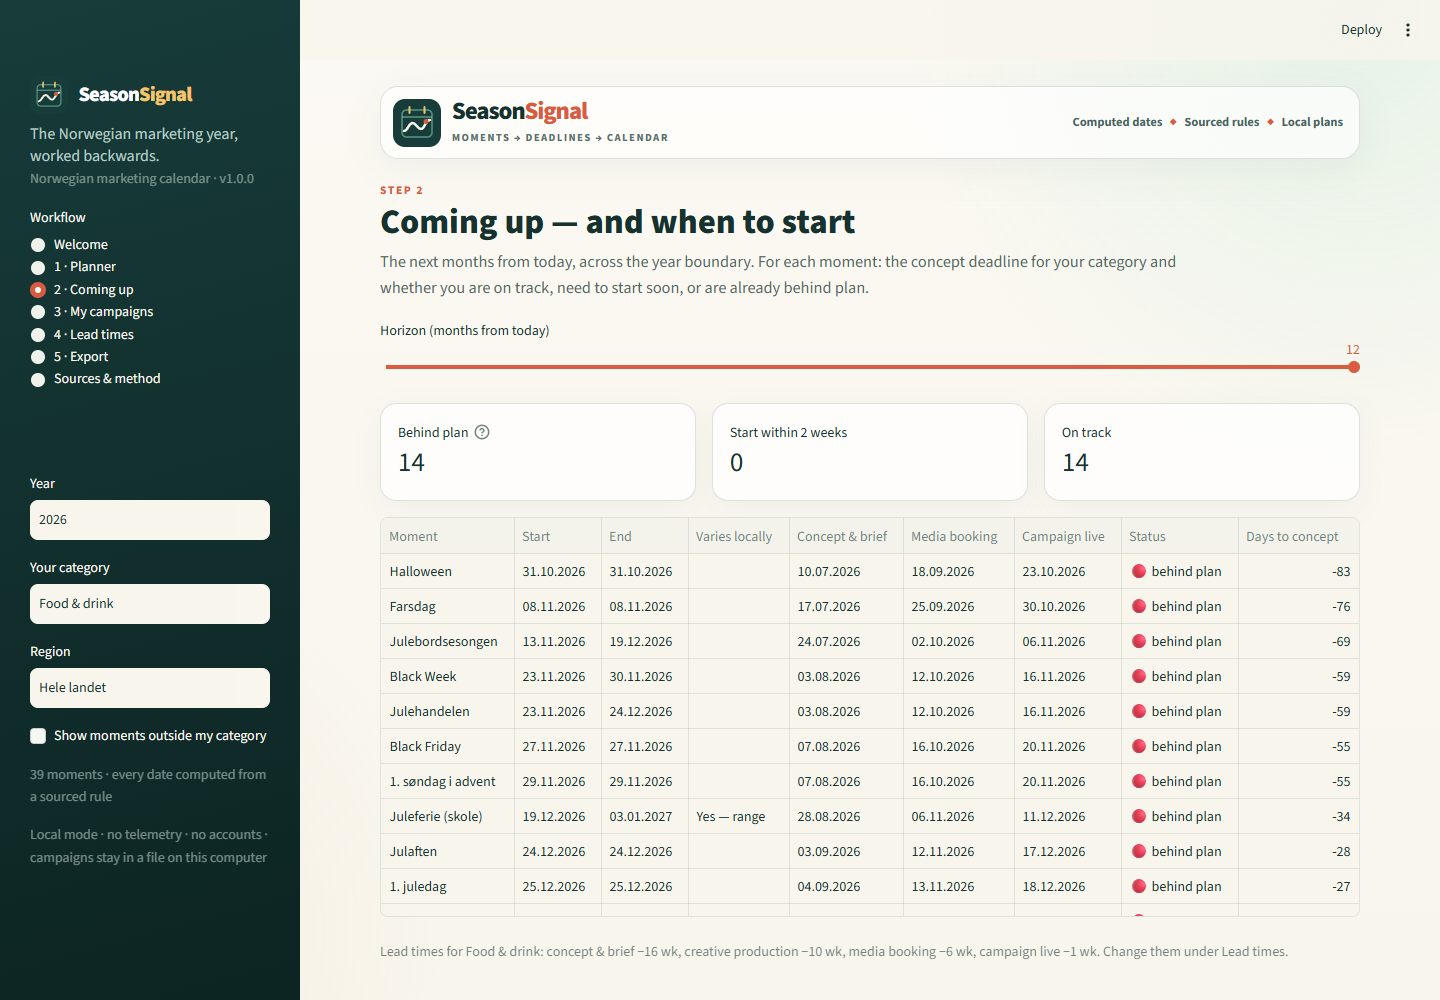
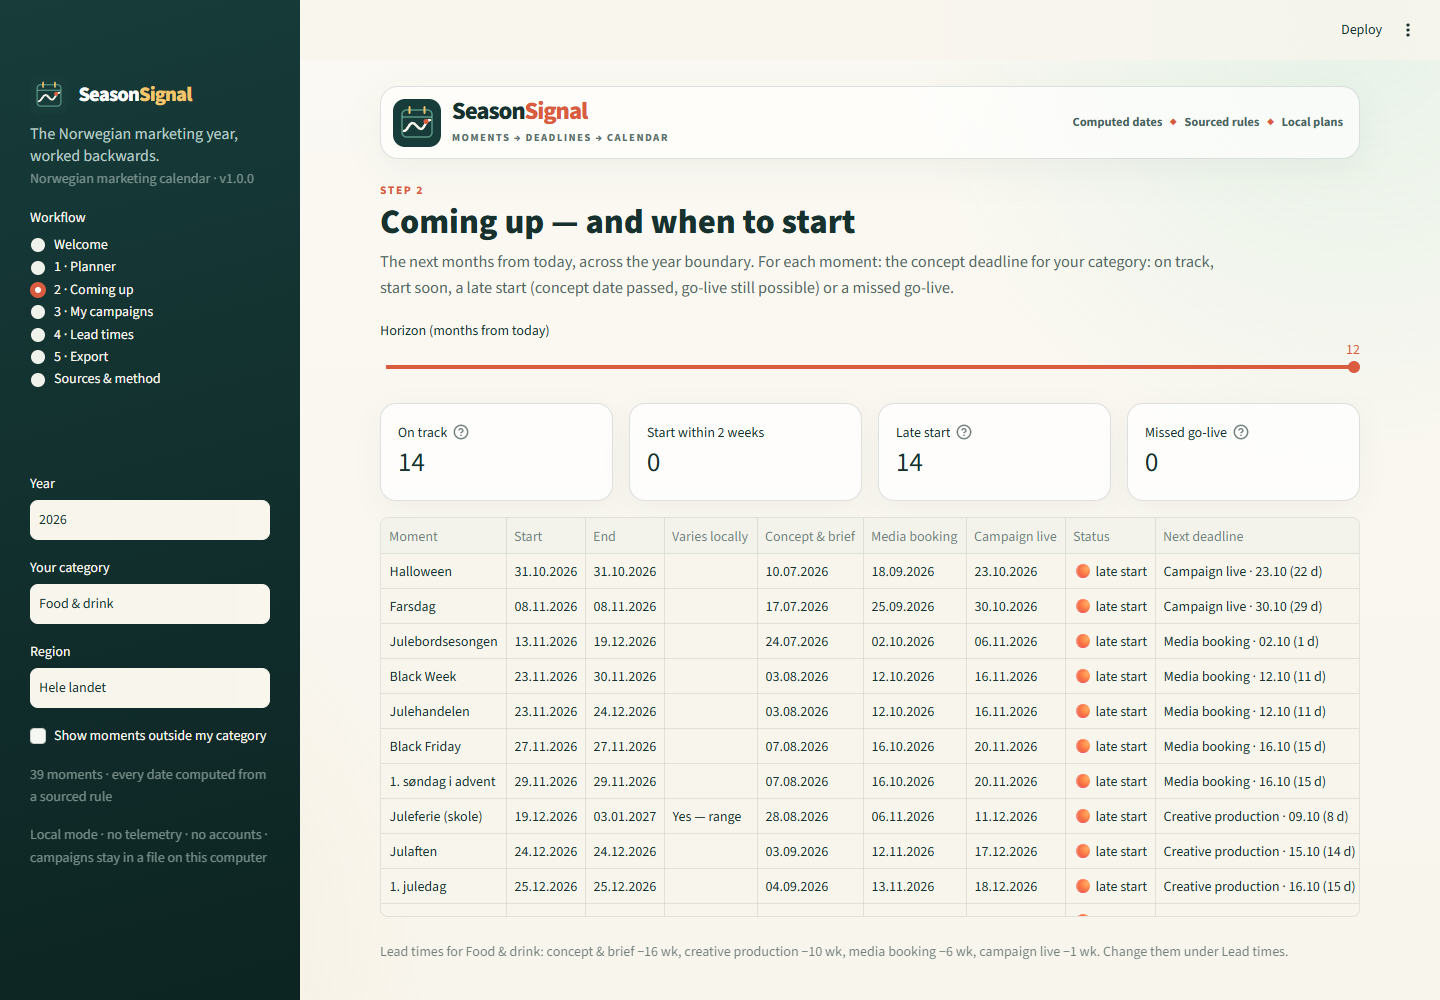
Clearer planning status, resilience fixes and macOS launcher
- Split "behind plan" into late start (go-live still possible) and
  missed go-live; Coming up shows the next deadline with a day count.
- window() includes ranges that started the previous year.
- Campaigns whose moment no longer exists are skipped with a warning
  instead of breaking pages, so they can still be removed.
- run_app.command for macOS; screenshots and examples regenerated.

diff --git a/app.py b/app.py
@@ -60,7 +60,8 @@ KIND_COLORS = {
 STATUS_ICONS = {
     "on track": "🟢 on track",
     "start soon": "🟡 start soon",
-    "behind plan": "🔴 behind plan",
+    "late start": "🟠 late start",
+    "missed go-live": "🔴 missed go-live",
     "happening now": "🔵 happening now",
     "passed": "⚪ passed",
 }
@@ -258,10 +259,20 @@ def _planned(year: int, category: str, region: str, show_all: bool):
     return plan_moments(LIBRARY, occurrences, _store().lead_times, category)
 
 
-def _campaign_plans(year: int | None = None):
+def _campaign_plans(year: int | None = None, *, warn: bool = False):
+    """Plans for saved campaigns. A campaign that no longer fits the library (e.g. its moment was renamed) is
+    skipped — optionally with a warning — so it can still be removed on the My campaigns page."""
     store = _store()
-    campaigns = [c for c in store.campaigns if year is None or c.year == year]
-    return [plan_campaign(c, LIBRARY, store.lead_times) for c in campaigns]
+    plans = []
+    for campaign in store.campaigns:
+        if year is not None and campaign.year != year:
+            continue
+        try:
+            plans.append(plan_campaign(campaign, LIBRARY, store.lead_times))
+        except PlanProblem as exc:
+            if warn:
+                st.warning(f"“{campaign.name}” cannot be planned and is left out: {exc} Remove it below.")
+    return plans
 
 
 DATE_COLUMNS = {
@@ -407,7 +418,7 @@ def page_welcome() -> None:
     st.markdown(
         f"1. The sidebar is set to **{_default_year()}**, **Food & drink** and **Hele landet**.\n"
         "2. Open **Planner**, click a bar (try *Black Week* or *17. mai*) and read its plan-back milestones.\n"
-        "3. Open **Coming up** for the next 6–12 months and what is already behind plan.\n"
+        "3. Open **Coming up** for the next 6–12 months: on track, late start or missed go-live.\n"
         "4. Open **My campaigns** to see the fictional brand *Fjellbrus* and its three campaigns.\n"
         "5. Open **Export** and download the `.ics` file for your calendar."
     )
@@ -475,7 +486,8 @@ def page_coming_up() -> None:
         "Step 2",
         "Coming up — and when to start",
         "The next months from today, across the year boundary. For each moment: the concept deadline for your "
-        "category and whether you are on track, need to start soon, or are already behind plan.",
+        "category: on track, start soon, a late start (concept date passed, go-live still possible) or a missed "
+        "go-live.",
     )
     months = st.slider("Horizon (months from today)", 6, 12, 12)
     start = max(TODAY, date(MIN_YEAR, 1, 1))
@@ -489,12 +501,18 @@ def page_coming_up() -> None:
         st.info("Nothing in this window for the chosen category.")
         return
     statuses = frame["Status"].value_counts()
-    cols = st.columns(3)
-    cols[0].metric("Behind plan", int(statuses.get("behind plan", 0)), help="Concept deadline already passed")
+    cols = st.columns(4)
+    cols[0].metric("On track", int(statuses.get("on track", 0)), help="Concept deadline more than two weeks away")
     cols[1].metric("Start within 2 weeks", int(statuses.get("start soon", 0)))
-    cols[2].metric("On track", int(statuses.get("on track", 0)))
+    cols[2].metric("Late start", int(statuses.get("late start", 0)),
+                   help="Concept deadline passed, but go-live is still ahead — plan a compressed timeline")
+    cols[3].metric("Missed go-live", int(statuses.get("missed go-live", 0)),
+                   help="The go-live date has passed; only a reactive presence is realistic")
     view = frame[["Moment", "Start", "End", "Varies locally", "Concept & brief", "Media booking", "Campaign live", "Status"]].copy()
-    view["Days to concept"] = [(d - TODAY).days for d in frame["Concept & brief"]]
+    next_due = [next((m for m in item.milestones if m.due >= TODAY), None) for item in planned]
+    view["Next deadline"] = [
+        f"{m.label} · {m.due:%d.%m} ({(m.due - TODAY).days} d)" if m else "go-live date passed" for m in next_due
+    ]
     view["Status"] = view["Status"].map(STATUS_ICONS)
     st.dataframe(view, hide_index=True, use_container_width=True, column_config=DATE_COLUMNS)
     st.caption(f"Lead times for {LIBRARY.category_label(category)}: " + ", ".join(
@@ -514,7 +532,7 @@ def page_campaigns() -> None:
     if not store.saved:
         st.info("You are looking at the fictional Fjellbrus demo. Your first change saves it to a local file; "
                 "remove the demo campaigns whenever you like.")
-    plans = [plan_campaign(c, LIBRARY, store.lead_times) for c in store.campaigns]
+    plans = _campaign_plans(warn=True)
     frame = campaigns_frame(LIBRARY, plans, TODAY)
     if frame.empty:
         st.info("No campaigns yet — add one below.")
@@ -523,7 +541,9 @@ def page_campaigns() -> None:
         view["Moment start"] = [f"{d:%d.%m.%Y}" for d in view["Moment start"]]
         st.dataframe(view, hide_index=True, use_container_width=True)
         for plan in plans:
-            label = ("🧪 " if plan.campaign.fictional else "") + f"{plan.campaign.name} · {plan.occurrence.moment.name_nb} {plan.campaign.year}"
+            label = ("🧪 " if plan.campaign.fictional else "") + (
+                f"{plan.campaign.name} · {plan.occurrence.moment.name_nb} {plan.campaign.year}"
+            )
             with st.expander(label):
                 st.markdown(f"**Moment:** {_span(plan.occurrence.start, plan.occurrence.end)}")
                 if plan.campaign.notes:

diff --git a/src/seasonsignal/planner.py b/src/seasonsignal/planner.py
@@ -51,17 +51,28 @@ def plan_moments(
     return [PlannedMoment(occ, plan_back(occ.start, offsets, holidays, working_days=working_days)) for occ in occurrences]
 
 
+STATUSES = ("on track", "start soon", "late start", "missed go-live", "happening now", "passed")
+
+
 def planning_status(item: PlannedMoment, today: date) -> str:
-    """Where a moment stands for a team starting today."""
+    """Where a moment stands for a team starting today.
+
+    - on track / start soon: the concept deadline is ahead (start soon = within 14 days);
+    - late start: the concept deadline has passed but go-live is still ahead — a compressed plan is possible;
+    - missed go-live: the go-live date has passed but the moment has not started;
+    - happening now / passed: the moment itself is under way or over.
+    """
     occ = item.occurrence
-    concept = next(m for m in item.milestones if m.key == "concept")
+    due = {m.key: m.due for m in item.milestones}
     if occ.end < today:
         return "passed"
     if occ.start <= today:
         return "happening now"
-    if concept.due >= today:
-        return "start soon" if (concept.due - today).days <= 14 else "on track"
-    return "behind plan"
+    if due["concept"] >= today:
+        return "start soon" if (due["concept"] - today).days <= 14 else "on track"
+    if due["live"] >= today:
+        return "late start"
+    return "missed go-live"
 
 
 def moments_frame(library: Library, planned: list[PlannedMoment], today: date | None = None) -> pd.DataFrame:

diff --git a/tests/test_app_pages.py b/tests/test_app_pages.py
@@ -75,3 +75,21 @@ def test_deep_link_opens_planner_on_a_moment():
     assert not app.exception, [error.value for error in app.exception]
     assert app.sidebar.radio[0].value == "1 · Planner"
     assert any("Black Week" in str(item.value) for item in app.markdown if str(item.value).startswith("###"))
+
+
+def test_campaign_for_unknown_moment_does_not_break_pages(isolated_store):
+    import json
+
+    (isolated_store / "seasonsignal.json").write_text(json.dumps({
+        "version": 1,
+        "lead_times": {},
+        "campaigns": [{"id": "old", "name": "Renamed moment", "moment_id": "gone", "year": 2026, "category": "food"}],
+    }), encoding="utf-8")
+    for page in ("3 · My campaigns", "5 · Export"):
+        app = _app()
+        app.sidebar.radio[0].set_value(page).run()
+        assert not app.exception, [error.value for error in app.exception]
+        assert not app.error, [error.value for error in app.error]
+        if page == "3 · My campaigns":
+            assert any("Renamed moment" in str(w.value) for w in app.warning)
+            assert any(b.label == "Remove campaign" for b in app.button)  # it can still be removed

diff --git a/tests/test_leadtimes_and_storage.py b/tests/test_leadtimes_and_storage.py
@@ -122,3 +122,16 @@ def test_campaign_validation_and_plan():
                          validate_lead_times(DEFAULT_LEAD_TIMES))
     assert plan.occurrence.start == date(2026, 11, 23)
     assert plan.milestones[0].due == date(2026, 8, 3)
+
+
+def test_planning_status_ladder():
+    from seasonsignal import plan_moments, planning_status
+
+    item = plan_moments(LIB, [LIB.resolve("black_week", 2026)], validate_lead_times(DEFAULT_LEAD_TIMES), "food")[0]
+    # Food: concept 3 Aug, live 16 Nov; Black Week 23–30 Nov 2026.
+    assert planning_status(item, date(2026, 6, 1)) == "on track"
+    assert planning_status(item, date(2026, 7, 27)) == "start soon"
+    assert planning_status(item, date(2026, 10, 1)) == "late start"
+    assert planning_status(item, date(2026, 11, 18)) == "missed go-live"
+    assert planning_status(item, date(2026, 11, 25)) == "happening now"
+    assert planning_status(item, date(2026, 12, 1)) == "passed"

diff --git a/src/seasonsignal/moments.py b/src/seasonsignal/moments.py
@@ -129,7 +129,7 @@ class Library:
         """Occurrences overlapping [start, start + months), across a year boundary if needed."""
         stop = _add_months(start, months)
         found: list[Occurrence] = []
-        for year in range(start.year, stop.year + 1):
+        for year in range(start.year - 1, stop.year + 1):  # the previous year's ranges can run into this one
             if rules.MIN_YEAR <= year <= rules.MAX_YEAR:
                 found.extend(occ for occ in self.occurrences(year, region) if occ.end >= start and occ.start < stop)
         return sorted(found, key=lambda occ: (occ.start, occ.moment.id))

diff --git a/tests/test_library.py b/tests/test_library.py
@@ -97,3 +97,8 @@ def test_circular_relative_rules_are_caught():
     library = parse_library(_with(loop))
     with pytest.raises(PlanProblem, match="Circular"):
         library.resolve("a", 2026)
+
+
+def test_window_includes_ranges_that_started_last_year():
+    found = {occ.moment.id for occ in LIB.window(date(2027, 1, 1), 6)}
+    assert "juleferie" in found  # 19.12.2026 – 03.01.2027

diff --git a/CHANGELOG.md b/CHANGELOG.md
@@ -19,9 +19,16 @@ First version of **SeasonSignal**, the Norwegian marketing calendar in the Signa
 - Exports: RFC 5545 `.ics` (all-day, transparent events with stable UIDs) and an XLSX plan with formula-injection-safe cells.
 - Fictional demo brand Fjellbrus (Food & drink) with påske, 17. mai and Black Week campaigns.
 
+### Planning status
+
+- Moments are graded on track / start soon / **late start** (concept date passed, go-live still possible) / **missed go-live** / happening now / passed, instead of one catch-all "behind plan". Coming up shows the next deadline with a day count.
+- The coming-up window includes ranges that began the previous year (e.g. the school Christmas break on 1 January).
+- A saved campaign whose moment no longer exists is skipped with a warning instead of breaking the page, so it can still be removed.
+
 ### Examples and docs
 
 - Committed example calendars in `examples/` (2026 moments; Fjellbrus demo with milestones) plus an XLSX plan, rebuilt by `scripts/generate_examples.py` and checked by a test. `.ics` files keep CRLF line endings via `.gitattributes`.
+- macOS launcher `run_app.command`; Docker image verified (builds, passes its health check, runs as a non-root user).
 - README screenshots captured with `scripts/take_screenshots.py`; deep links such as `?page=planner&moment=black_week`.
 - The example `.ics` files were cross-checked with a second parser (vobject).
 

diff --git a/README.md b/README.md
@@ -32,7 +32,7 @@ Everything runs locally with open-source Python packages. There is no account, t
 
 1. Start the app. It opens on the current year, category **Food & drink** and region **Hele landet**.
 2. Open **Planner** and click a bar or diamond — try *Black Week* or *17. mai* — to see concept, creative, media-booking and go-live dates.
-3. Open **Coming up** for the next 6–12 months, across New Year, with what is on track and what is already behind plan.
+3. Open **Coming up** for the next 6–12 months, across New Year: what is on track, what needs a late start (concept date passed, go-live still possible) and what has missed its go-live.
 4. Open **My campaigns** to see **Fjellbrus**, a fictional alcohol-free drinks brand, with three campaigns: påske, 17. mai and Black Week.
 5. Open **Export** and download the `.ics` file and the XLSX plan.
 
@@ -65,6 +65,8 @@ Categories: Retail, Food & drink, Fashion, Travel, B2B, Alcohol-free, Kids & fam
 ## Run locally
 
 You need Python 3.10 or newer and a local copy of this folder.
+
+**macOS:** double-click `run_app.command`.
 
 **Windows:** double-click `run_app.bat`.
 
